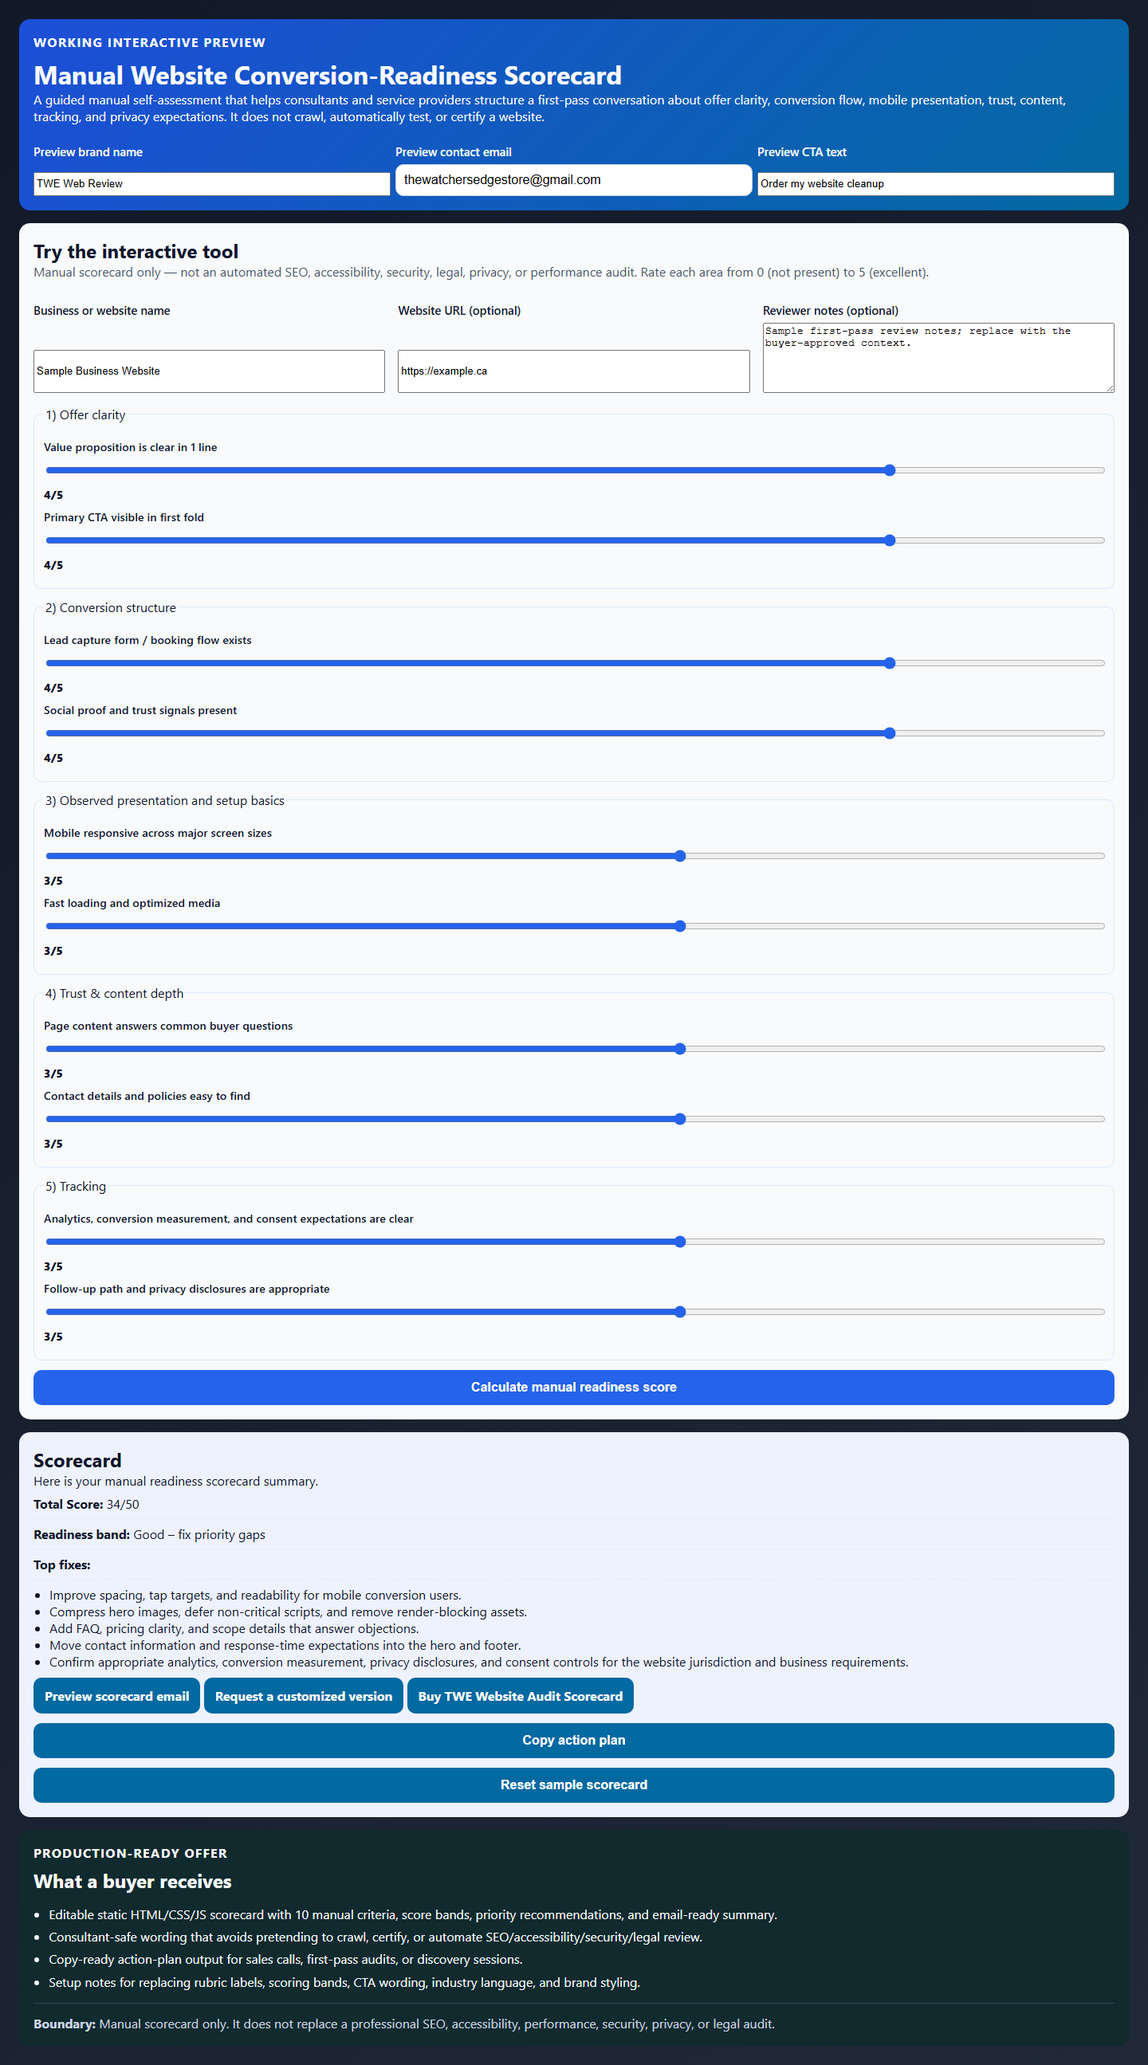
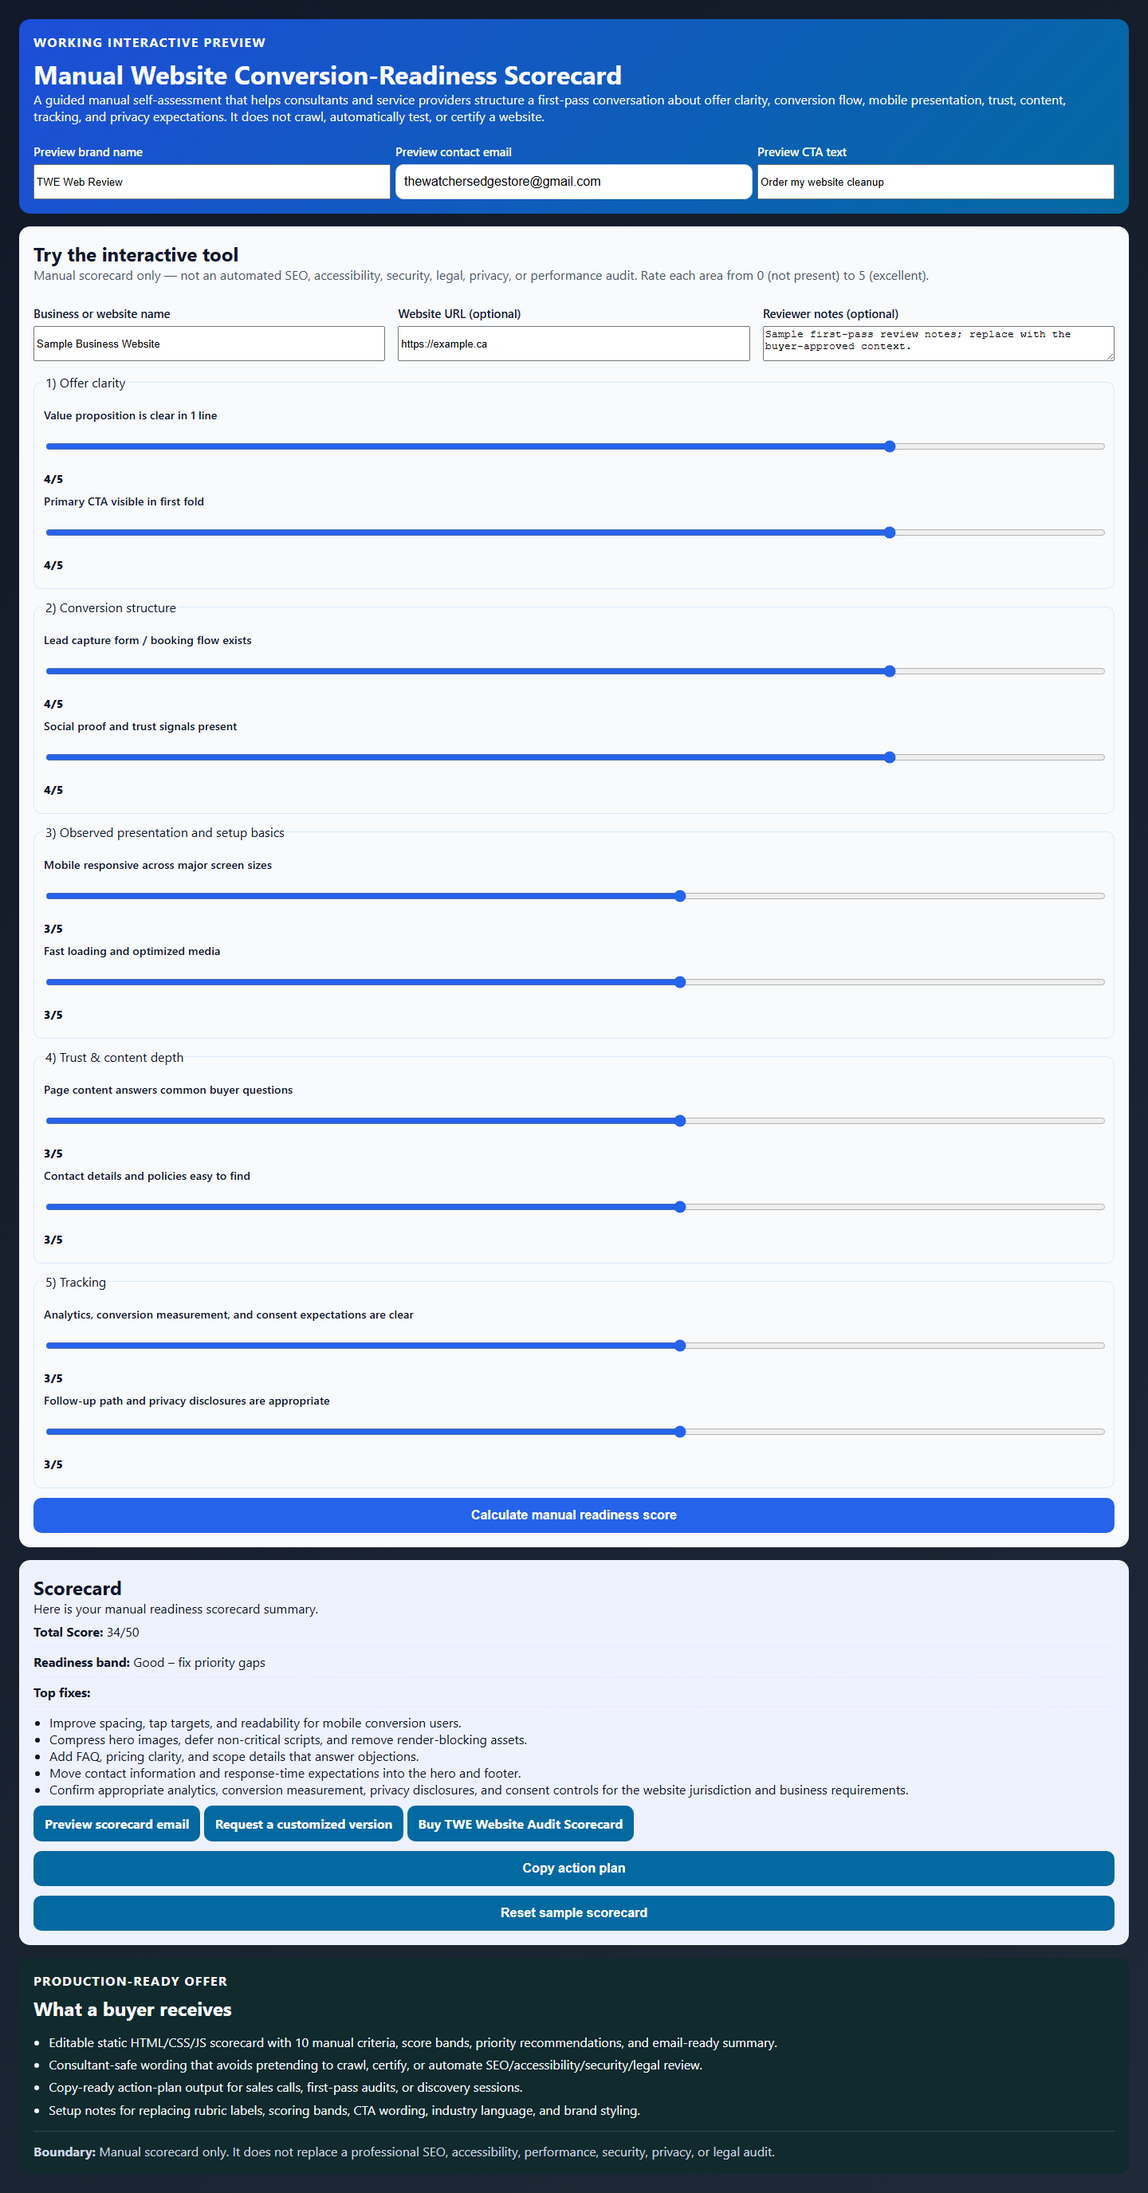
Fix target sizes and quote error accessibility

Changed region(s): [[0.0, 0.0, 1.0, 0.988]]

diff --git a/gigs/local-service-quote-calculator/script.js b/gigs/local-service-quote-calculator/script.js
@@ -114,17 +114,33 @@ function estimateLines(estimate) {
   ];
 }
 
-function calculateTotal() {
+function invalidEstimateFields(estimate) {
+  const checks = [
+    [hours, hours.checkValidity() && estimate.laborHours >= 1],
+    [hourlyRate, hourlyRate.checkValidity() && estimate.laborRate >= 20],
+    [materials, materials.checkValidity() && estimate.materialsCost >= 0]
+  ];
+  checks.forEach(([field, valid]) => valid ? field.removeAttribute('aria-invalid') : field.setAttribute('aria-invalid', 'true'));
+  return checks.filter(([, valid]) => !valid).map(([field]) => field);
+}
+
+function calculateTotal(focusInvalid = false) {
   const estimate = readEstimate();
   const brandEmail = brandEmailEl.value.trim();
   const brandName = brandNameEl.value.trim() || 'Your Business';
-  if (!isEstimateUsable(estimate)) {
+  const invalidFields = invalidEstimateFields(estimate);
+  if (invalidFields.length || !isEstimateUsable(estimate)) {
     resultCard.classList.add('hidden');
     ctaEl.removeAttribute('href');
+    messageEl.setAttribute('role', 'alert');
+    messageEl.setAttribute('aria-live', 'assertive');
     messageEl.textContent = 'Enter labor hours of at least 1, an hourly rate of at least $20, and non-negative materials to generate an estimate preview.';
     lastEstimate = null;
+    if (focusInvalid && invalidFields.length) invalidFields[0].focus();
     return;
   }
+  messageEl.removeAttribute('role');
+  messageEl.setAttribute('aria-live', 'polite');
   lastEstimate = estimate;
   laborSubtotalEl.textContent = currency.format(Math.round(estimate.adjustedLaborCost));
   fixedSubtotalEl.textContent = currency.format(Math.round(estimate.fixedAndPassThroughCosts));
@@ -207,10 +223,10 @@ function resetSampleEstimate() {
 }
 
 updateOptionLabels();
-document.getElementById('calculate').addEventListener('click', calculateTotal);
+document.getElementById('calculate').addEventListener('click', () => calculateTotal(true));
 brandNameEl.addEventListener('input', updateBrand);
-[serviceType, hours, hourlyRate, teamSize, urgency, materials, customerNameEl, customerContactEl, serviceLocationEl, projectNotesEl, ctaTextEl, brandEmailEl].forEach((el) => el.addEventListener('input', calculateTotal));
-addonInputs.forEach((el) => el.addEventListener('change', calculateTotal));
+[serviceType, hours, hourlyRate, teamSize, urgency, materials, customerNameEl, customerContactEl, serviceLocationEl, projectNotesEl, ctaTextEl, brandEmailEl].forEach((el) => el.addEventListener('input', () => calculateTotal(false)));
+addonInputs.forEach((el) => el.addEventListener('change', () => calculateTotal(false)));
 document.getElementById('copy-summary').addEventListener('click', copyQuoteSummary);
 document.getElementById('reset-sample').addEventListener('click', resetSampleEstimate);
 updateBrand();

diff --git a/templates/landing-page/gigs/local-service-quote-calculator/script.js b/templates/landing-page/gigs/local-service-quote-calculator/script.js
@@ -114,17 +114,33 @@ function estimateLines(estimate) {
   ];
 }
 
-function calculateTotal() {
+function invalidEstimateFields(estimate) {
+  const checks = [
+    [hours, hours.checkValidity() && estimate.laborHours >= 1],
+    [hourlyRate, hourlyRate.checkValidity() && estimate.laborRate >= 20],
+    [materials, materials.checkValidity() && estimate.materialsCost >= 0]
+  ];
+  checks.forEach(([field, valid]) => valid ? field.removeAttribute('aria-invalid') : field.setAttribute('aria-invalid', 'true'));
+  return checks.filter(([, valid]) => !valid).map(([field]) => field);
+}
+
+function calculateTotal(focusInvalid = false) {
   const estimate = readEstimate();
   const brandEmail = brandEmailEl.value.trim();
   const brandName = brandNameEl.value.trim() || 'Your Business';
-  if (!isEstimateUsable(estimate)) {
+  const invalidFields = invalidEstimateFields(estimate);
+  if (invalidFields.length || !isEstimateUsable(estimate)) {
     resultCard.classList.add('hidden');
     ctaEl.removeAttribute('href');
+    messageEl.setAttribute('role', 'alert');
+    messageEl.setAttribute('aria-live', 'assertive');
     messageEl.textContent = 'Enter labor hours of at least 1, an hourly rate of at least $20, and non-negative materials to generate an estimate preview.';
     lastEstimate = null;
+    if (focusInvalid && invalidFields.length) invalidFields[0].focus();
     return;
   }
+  messageEl.removeAttribute('role');
+  messageEl.setAttribute('aria-live', 'polite');
   lastEstimate = estimate;
   laborSubtotalEl.textContent = currency.format(Math.round(estimate.adjustedLaborCost));
   fixedSubtotalEl.textContent = currency.format(Math.round(estimate.fixedAndPassThroughCosts));
@@ -207,10 +223,10 @@ function resetSampleEstimate() {
 }
 
 updateOptionLabels();
-document.getElementById('calculate').addEventListener('click', calculateTotal);
+document.getElementById('calculate').addEventListener('click', () => calculateTotal(true));
 brandNameEl.addEventListener('input', updateBrand);
-[serviceType, hours, hourlyRate, teamSize, urgency, materials, customerNameEl, customerContactEl, serviceLocationEl, projectNotesEl, ctaTextEl, brandEmailEl].forEach((el) => el.addEventListener('input', calculateTotal));
-addonInputs.forEach((el) => el.addEventListener('change', calculateTotal));
+[serviceType, hours, hourlyRate, teamSize, urgency, materials, customerNameEl, customerContactEl, serviceLocationEl, projectNotesEl, ctaTextEl, brandEmailEl].forEach((el) => el.addEventListener('input', () => calculateTotal(false)));
+addonInputs.forEach((el) => el.addEventListener('change', () => calculateTotal(false)));
 document.getElementById('copy-summary').addEventListener('click', copyQuoteSummary);
 document.getElementById('reset-sample').addEventListener('click', resetSampleEstimate);
 updateBrand();

diff --git a/templates/landing-page/index.html b/templates/landing-page/index.html
@@ -33,7 +33,7 @@
           <a class="screenshot-link" href="gigs/lead-value-roi-calculator/">
             <picture>
               <source srcset="assets/screenshots/gigs/lead-value-roi-calculator-card.webp" type="image/webp" />
-              <img src="assets/screenshots/gigs/lead-value-roi-calculator-desktop-output.png" alt="Actual desktop screenshot of Lead Value & ROI Calculator" loading="lazy" decoding="async" width="720" height="1188" />
+              <img src="assets/screenshots/gigs/lead-value-roi-calculator-desktop-output.png" alt="Actual desktop screenshot of Lead Value & ROI Calculator" loading="lazy" decoding="async" width="720" height="1292" />
             </picture>
           </a>
           <div class="gig-card-body">
@@ -51,7 +51,7 @@
           <a class="screenshot-link" href="gigs/local-service-quote-calculator/">
             <picture>
               <source srcset="assets/screenshots/gigs/local-service-quote-calculator-card.webp" type="image/webp" />
-              <img src="assets/screenshots/gigs/local-service-quote-calculator-desktop-output.png" alt="Actual desktop screenshot of Custom Service Estimate & Intake Calculator" loading="lazy" decoding="async" width="720" height="1121" />
+              <img src="assets/screenshots/gigs/local-service-quote-calculator-desktop-output.png" alt="Actual desktop screenshot of Custom Service Estimate & Intake Calculator" loading="lazy" decoding="async" width="720" height="1114" />
             </picture>
           </a>
           <div class="gig-card-body">
@@ -69,7 +69,7 @@
           <a class="screenshot-link" href="gigs/website-audit-scorecard/">
             <picture>
               <source srcset="assets/screenshots/gigs/website-audit-scorecard-card.webp" type="image/webp" />
-              <img src="assets/screenshots/gigs/website-audit-scorecard-desktop-output.png" alt="Actual desktop screenshot of Website Audit Scorecard" loading="lazy" decoding="async" width="720" height="1296" />
+              <img src="assets/screenshots/gigs/website-audit-scorecard-desktop-output.png" alt="Actual desktop screenshot of Website Audit Scorecard" loading="lazy" decoding="async" width="720" height="1376" />
             </picture>
           </a>
           <div class="gig-card-body">

diff --git a/templates/landing-page/styles.css b/templates/landing-page/styles.css
@@ -16,7 +16,7 @@ h1 { font-size: clamp(2.5rem, 4.5vw, 3.5rem); line-height: 1.05; max-width: 18ch
 .cta { background: #7c3aed; color: white; }
 .secondary { background: rgba(255,255,255,0.08); color: white; }
 .link-btn { color: #c4b5fd; }
-.product-link { color: #99f6e4; font-weight: 800; text-underline-offset: 0.22em; }
+.product-link { display: inline-flex; align-items: center; min-height: 44px; padding-inline: 10px; color: #99f6e4; font-weight: 800; text-underline-offset: 0.22em; }
 .section { padding: 56px 24px; }
 .grid-3 { display: grid; grid-template-columns: repeat(auto-fit, minmax(min(220px, 100%), 1fr)); gap: 20px; }
 .card { background: rgba(255,255,255,0.06); border: 1px solid rgba(255,255,255,0.08); border-radius: 18px; padding: 24px; }

diff --git a/gigs/local-service-quote-calculator/styles.css b/gigs/local-service-quote-calculator/styles.css
@@ -244,6 +244,10 @@ textarea:focus-visible {
 /* Final accessibility/responsive hardening for 320px and 200% zoom checks. */
 html { overflow-x: hidden; }
 body { overflow-x: hidden; }
+input:not([type='checkbox']):not([type='radio']):not([type='range']),
+select,
+textarea,
+input[type='range'] { min-height: 44px; }
 .shell, .page, .container, .hero, .card, .panel, .result, .result-card, .content-grid, .brand-panel, .product-readiness { min-width: 0; max-width: 100%; }
 a, button, input, select, textarea, p, li, h1, h2, h3, strong, span, legend, summary { overflow-wrap: anywhere; }
 .copy-grid, .brand-grid, .brand-area, .intake-grid, .context-grid { grid-template-columns: repeat(auto-fit, minmax(min(180px, 100%), 1fr)); }

diff --git a/gigs/website-audit-scorecard/styles.css b/gigs/website-audit-scorecard/styles.css
@@ -172,6 +172,10 @@ textarea:focus-visible {
 /* Final accessibility/responsive hardening for 320px and 200% zoom checks. */
 html { overflow-x: hidden; }
 body { overflow-x: hidden; }
+input:not([type='checkbox']):not([type='radio']):not([type='range']),
+select,
+textarea,
+input[type='range'] { min-height: 44px; }
 .shell, .page, .container, .hero, .card, .panel, .result, .result-card, .content-grid, .brand-panel, .product-readiness { min-width: 0; max-width: 100%; }
 a, button, input, select, textarea, p, li, h1, h2, h3, strong, span, legend, summary { overflow-wrap: anywhere; }
 .copy-grid, .brand-grid, .brand-area, .intake-grid, .context-grid { grid-template-columns: repeat(auto-fit, minmax(min(180px, 100%), 1fr)); }

diff --git a/templates/landing-page/gigs/local-service-quote-calculator/styles.css b/templates/landing-page/gigs/local-service-quote-calculator/styles.css
@@ -244,6 +244,10 @@ textarea:focus-visible {
 /* Final accessibility/responsive hardening for 320px and 200% zoom checks. */
 html { overflow-x: hidden; }
 body { overflow-x: hidden; }
+input:not([type='checkbox']):not([type='radio']):not([type='range']),
+select,
+textarea,
+input[type='range'] { min-height: 44px; }
 .shell, .page, .container, .hero, .card, .panel, .result, .result-card, .content-grid, .brand-panel, .product-readiness { min-width: 0; max-width: 100%; }
 a, button, input, select, textarea, p, li, h1, h2, h3, strong, span, legend, summary { overflow-wrap: anywhere; }
 .copy-grid, .brand-grid, .brand-area, .intake-grid, .context-grid { grid-template-columns: repeat(auto-fit, minmax(min(180px, 100%), 1fr)); }

diff --git a/templates/landing-page/gigs/website-audit-scorecard/styles.css b/templates/landing-page/gigs/website-audit-scorecard/styles.css
@@ -172,6 +172,10 @@ textarea:focus-visible {
 /* Final accessibility/responsive hardening for 320px and 200% zoom checks. */
 html { overflow-x: hidden; }
 body { overflow-x: hidden; }
+input:not([type='checkbox']):not([type='radio']):not([type='range']),
+select,
+textarea,
+input[type='range'] { min-height: 44px; }
 .shell, .page, .container, .hero, .card, .panel, .result, .result-card, .content-grid, .brand-panel, .product-readiness { min-width: 0; max-width: 100%; }
 a, button, input, select, textarea, p, li, h1, h2, h3, strong, span, legend, summary { overflow-wrap: anywhere; }
 .copy-grid, .brand-grid, .brand-area, .intake-grid, .context-grid { grid-template-columns: repeat(auto-fit, minmax(min(180px, 100%), 1fr)); }

diff --git a/gigs/lead-value-roi-calculator/styles.css b/gigs/lead-value-roi-calculator/styles.css
@@ -186,6 +186,10 @@ input:focus-visible {
 /* Final accessibility/responsive hardening for 320px and 200% zoom checks. */
 html { overflow-x: hidden; }
 body { overflow-x: hidden; }
+input:not([type='checkbox']):not([type='radio']):not([type='range']),
+select,
+textarea,
+input[type='range'] { min-height: 44px; }
 .shell, .page, .container, .hero, .card, .panel, .result, .result-card, .content-grid, .brand-panel, .product-readiness { min-width: 0; max-width: 100%; }
 a, button, input, select, textarea, p, li, h1, h2, h3, strong, span, legend, summary { overflow-wrap: anywhere; }
 .copy-grid, .brand-grid, .brand-area, .intake-grid, .context-grid { grid-template-columns: repeat(auto-fit, minmax(min(180px, 100%), 1fr)); }

diff --git a/templates/landing-page/gigs/lead-value-roi-calculator/styles.css b/templates/landing-page/gigs/lead-value-roi-calculator/styles.css
@@ -186,6 +186,10 @@ input:focus-visible {
 /* Final accessibility/responsive hardening for 320px and 200% zoom checks. */
 html { overflow-x: hidden; }
 body { overflow-x: hidden; }
+input:not([type='checkbox']):not([type='radio']):not([type='range']),
+select,
+textarea,
+input[type='range'] { min-height: 44px; }
 .shell, .page, .container, .hero, .card, .panel, .result, .result-card, .content-grid, .brand-panel, .product-readiness { min-width: 0; max-width: 100%; }
 a, button, input, select, textarea, p, li, h1, h2, h3, strong, span, legend, summary { overflow-wrap: anywhere; }
 .copy-grid, .brand-grid, .brand-area, .intake-grid, .context-grid { grid-template-columns: repeat(auto-fit, minmax(min(180px, 100%), 1fr)); }

diff --git a/scripts/verify_interactive_target_sizes.py b/scripts/verify_interactive_target_sizes.py
@@ -1,0 +1,32 @@
+from __future__ import annotations
+import http.server,json,socketserver,threading
+from pathlib import Path
+from playwright.sync_api import sync_playwright
+ROOT=Path(__file__).resolve().parents[1];LANDING=ROOT/'templates'/'landing-page';OUT=ROOT/'runtime'/'interactive_target_sizes.json'
+ROUTES=['/','/gigs/lead-value-roi-calculator/','/gigs/local-service-quote-calculator/','/gigs/website-audit-scorecard/'];WIDTHS=[320,390,1440];ZOOMS=[1,2]
+ACTIONABLE='a[href],button,input:not([type="hidden"]),select,textarea,[role="button"],[tabindex]:not([tabindex="-1"])'
+class Handler(http.server.SimpleHTTPRequestHandler):
+ def log_message(self,*args):pass
+
+def main():
+ handler=lambda *a,**k:Handler(*a,directory=str(LANDING),**k)
+ with socketserver.TCPServer(('127.0.0.1',0),handler) as srv:
+  threading.Thread(target=srv.serve_forever,daemon=True).start();base=f'http://127.0.0.1:{srv.server_address[1]}';rows=[]
+  with sync_playwright() as p:
+   browser=p.chromium.launch(headless=True)
+   for width in WIDTHS:
+    page=browser.new_page(viewport={'width':width,'height':1000})
+    for route in ROUTES:
+     page.goto(base+route,wait_until='networkidle')
+     for zoom in ZOOMS:
+      page.evaluate('(z)=>document.documentElement.style.zoom=String(z)',zoom)
+      failures=page.locator(ACTIONABLE).evaluate_all("""els=>els.filter(e=>{const s=getComputedStyle(e),r=e.getBoundingClientRect();return s.display!=='none'&&s.visibility!=='hidden'&&s.opacity!=='0'&&r.width>0&&r.height>0}).map(e=>{const r=e.getBoundingClientRect();let effective={width:r.width,height:r.height,source:'direct'};if(e.type==='checkbox'||e.type==='radio'){const l=(e.id&&document.querySelector(`label[for="${CSS.escape(e.id)}"]`))||e.closest('label');if(l){const lr=l.getBoundingClientRect();effective={width:lr.width,height:lr.height,source:'associated-label'}}}return {tag:e.tagName.toLowerCase(),id:e.id||'',type:e.type||'',classes:e.className||'',text:(e.innerText||e.value||e.getAttribute('aria-label')||'').trim().slice(0,100),width:+r.width.toFixed(2),height:+r.height.toFixed(2),effective_width:+effective.width.toFixed(2),effective_height:+effective.height.toFixed(2),measurement:effective.source}}).filter(x=>x.effective_width<44||x.effective_height<44)""")
+      rows.append({'route':route,'width':width,'zoom':zoom,'failures':failures})
+     page.evaluate("document.documentElement.style.zoom='1'")
+    page.close()
+   browser.close();srv.shutdown()
+ OUT.parent.mkdir(exist_ok=True);OUT.write_text(json.dumps({'ok':all(not r['failures'] for r in rows),'rows':rows},indent=2),encoding='utf-8')
+ failures=[r for r in rows if r['failures']]
+ if failures:raise AssertionError(json.dumps(failures,indent=2))
+ print(f'INTERACTIVE_TARGET_SIZES_OK {OUT}')
+if __name__=='__main__':main()

diff --git a/scripts/verify_quote_invalid_state_accessibility.py b/scripts/verify_quote_invalid_state_accessibility.py
@@ -1,0 +1,25 @@
+from __future__ import annotations
+import http.server,json,socketserver,threading
+from pathlib import Path
+from playwright.sync_api import sync_playwright
+ROOT=Path(__file__).resolve().parents[1];LANDING=ROOT/'templates'/'landing-page';OUT=ROOT/'runtime'/'quote_invalid_state_accessibility.json'
+class Handler(http.server.SimpleHTTPRequestHandler):
+ def log_message(self,*args):pass
+
+def snapshot(page,state):
+ return {'state':state,'active_id':page.evaluate('document.activeElement && document.activeElement.id'),'message':page.locator('#client-message').inner_text(),'message_role':page.locator('#client-message').get_attribute('role'),'message_live':page.locator('#client-message').get_attribute('aria-live'),'breakdown_hidden':page.locator('#breakdown').evaluate('e=>e.classList.contains("hidden")'),'invalid':{x:page.locator('#'+x).get_attribute('aria-invalid') for x in ['hours','hourly-rate','materials']}}
+def main():
+ handler=lambda *a,**k:Handler(*a,directory=str(LANDING),**k)
+ with socketserver.TCPServer(('127.0.0.1',0),handler) as srv:
+  threading.Thread(target=srv.serve_forever,daemon=True).start();url=f'http://127.0.0.1:{srv.server_address[1]}/gigs/local-service-quote-calculator/';rows=[]
+  with sync_playwright() as p:
+   browser=p.chromium.launch(headless=True);page=browser.new_page(viewport={'width':390,'height':900});page.goto(url,wait_until='networkidle')
+   page.locator('#hours').fill('0');page.locator('#calculate').click();bad=snapshot(page,'invalid');rows.append(bad)
+   assert bad['invalid']['hours']=='true' and bad['active_id']=='hours' and (bad['message_role']=='alert' or bad['message_live']=='assertive') and bad['breakdown_hidden']
+   page.locator('#hours').fill('4');page.locator('#calculate').click();fixed=snapshot(page,'corrected');rows.append(fixed)
+   assert all(v is None for v in fixed['invalid'].values()) and not fixed['breakdown_hidden'] and fixed['message_role']!='alert'
+   page.locator('#hours').fill('0');page.locator('#calculate').click();page.locator('#reset-sample').click();reset=snapshot(page,'reset');rows.append(reset)
+   assert all(v is None for v in reset['invalid'].values()) and not reset['breakdown_hidden'] and reset['message_role']!='alert'
+   browser.close();srv.shutdown()
+ OUT.parent.mkdir(exist_ok=True);OUT.write_text(json.dumps({'ok':True,'rows':rows},indent=2),encoding='utf-8');print(f'QUOTE_INVALID_STATE_ACCESSIBILITY_OK {OUT}')
+if __name__=='__main__':main()
